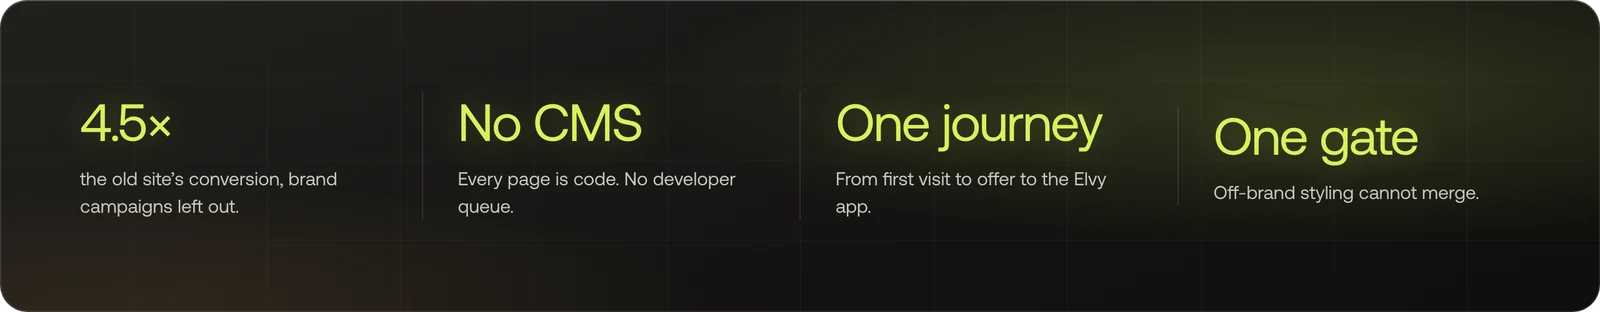
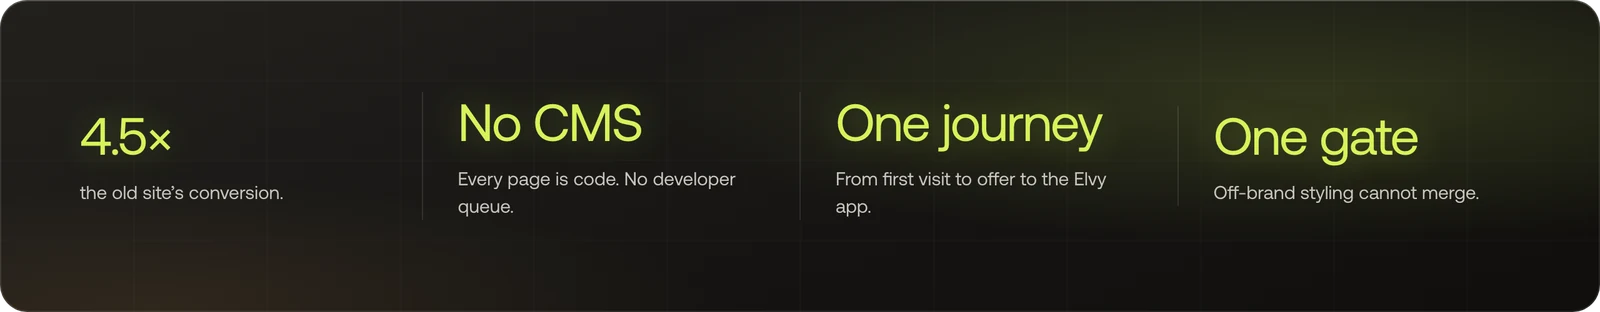
Profile: How I work picture; drop campaign note; Apollo framed as tools I build for the team

Changed region(s): [[0.0312, 0.5481, 0.2188, 0.6923], [0.0312, 0.3173, 0.125, 0.5192]]

diff --git a/README.md b/README.md
@@ -2,7 +2,7 @@
 
 <p align="center"><a href="https://www.linkedin.com/in/johanmatsgard/">LinkedIn</a> · <a href="https://github.com/johanmatsgard/vaken">vaken</a> · <a href="https://www.elvyenergy.com/design-system">Elvy design system</a></p>
 
-**I build AI systems that run growth, and I lead them like an engineering team.** Most marketers brief engineers. I direct the agents that write the code, and I own the result. Since May: elvyenergy.com, now 4.5× the old site's conversion; Apollo, Elvy's AI marketing crew, which I designed; and vaken, open-source mission control for Claude Code, which I built. More than 6,300 commits from many agents running in parallel, planned and reviewed by me. I run brand and growth at Elvy in Stockholm.
+**I build AI systems that run growth, and I lead them like an engineering team.** Most marketers brief engineers. I direct the agents that write the code, and I own the result. Since May: elvyenergy.com, now 4.5× the old site's conversion; Apollo, the AI marketing crew I build for our team; and vaken, open-source mission control for Claude Code, which I built. More than 6,300 commits from many agents running in parallel, planned and reviewed by me. I run brand and growth at Elvy in Stockholm.
 
 Before Elvy I spent many years on strategy, growth and digital transformation for global brands and fast-growing companies, B2B and B2C. I still advise founders and investors on growth.
 
@@ -11,7 +11,7 @@ Before Elvy I spent many years on strategy, growth and digital transformation fo
 <table>
 <tr>
 <td width="33%" valign="top"><a href="#elvyenergycom-45-the-conversion-run-as-code"><img src="assets/featured-elvy.webp" alt="elvyenergy.com: 4.5× the conversion"></a><br><b>elvyenergy.com</b><br>Every page is code. Every change is tested. Now 4.5× the old site's conversion. <a href="#elvyenergycom-45-the-conversion-run-as-code">See the work</a></td>
-<td width="33%" valign="top"><a href="#apollo-a-small-team-with-the-reach-of-a-big-one"><img src="assets/featured-apollo.webp" alt="Apollo: a small team with the reach of a big one"></a><br><b>Apollo</b><br>Elvy's AI marketing crew, designed by me. About 6× more output per person, our own estimate. <a href="#apollo-a-small-team-with-the-reach-of-a-big-one">See Apollo</a></td>
+<td width="33%" valign="top"><a href="#apollo-a-small-team-with-the-reach-of-a-big-one"><img src="assets/featured-apollo.webp" alt="Apollo: a small team with the reach of a big one"></a><br><b>Apollo</b><br>Elvy's AI marketing crew. About 6× more output per person, our own estimate. <a href="#apollo-a-small-team-with-the-reach-of-a-big-one">See Apollo</a></td>
 <td width="33%" valign="top"><a href="#vaken-mission-control-for-claude-code"><img src="assets/featured-vaken.webp" alt="vaken: mission control for Claude Code"></a><br><b>vaken</b><br>Open-source mission control for Claude Code. Long-session context about 70% smaller, and a stop before risky commands. <a href="#vaken-mission-control-for-claude-code">See vaken</a></td>
 </tr>
 </table>
@@ -24,14 +24,14 @@ Before Elvy I spent many years on strategy, growth and digital transformation fo
 
 The new site, built on a new design system, went live on 10 July. I have run it end to end since: pages, SEO, conversion, content, tracking, and the links to Apollo and our sales tools.
 
-Every change ships the same way: an agent edits the code, opens a pull request with a preview, and a gate checks it. Conversion more than doubled in the first month, then kept climbing. Today the site converts **4.5× better** than the old one, with brand campaigns left out.
+Every change ships the same way: an agent edits the code, opens a pull request with a preview, and a gate checks it. Conversion more than doubled in the first month, then kept climbing. Today the site converts **4.5× better** than the old one.
 
 - **No CMS.** Every page is code, managed through Claude Code. Marketing moves without waiting in a developer queue.
 - **One journey.** Onboarding looks up the house from the address, so visitors start with their own home. The path runs on to the offer and the Elvy app.
 - **One gate.** No change merges without lint, types, tests, contrast and a token check. Off-brand styling cannot slip in.
 - **Built for campaigns.** Wired to Apollo: a new campaign gets its own landing page fast, tracked from day one.
 
-<picture><source media="(prefers-color-scheme: dark)" srcset="assets/uplift-dark.webp"><img src="assets/uplift-light.webp" alt="Conversion rate: 4.5× the old site, with brand-awareness campaigns left out." width="100%"></picture>
+<picture><source media="(prefers-color-scheme: dark)" srcset="assets/uplift-dark.webp"><img src="assets/uplift-light.webp" alt="Conversion rate: 4.5× the old site." width="100%"></picture>
 
 <table>
 <tr>
@@ -53,7 +53,6 @@ Every change ships the same way: an agent edits the code, opens a pull request w
 - **No CMS.** You ask an AI coding agent for a change and drop in the images. It edits the right file and opens a pull request with a preview link. Nothing goes live on its own.
 - **One gate for every change.** Formatting, lint, type check, tests, contrast and document structure, and a check that the generated CSS still matches the tokens.
 - **Leads flow straight on.** Each lead from the onboarding flow goes to sales with the house data attached, and quiet leads get a planned follow-up in HubSpot.
-- **Measured honestly.** Brand-awareness traffic is read apart from performance traffic, so a big brand push never hides a real gain.
 
 Stack: Next.js (App Router), React 19, TypeScript, Tailwind v4, next-intl, React Email, Vercel. [Full write-up](https://github.com/johanmatsgard/elvy-web-case-study)
 </details>
@@ -66,7 +65,7 @@ Stack: Next.js (App Router), React 19, TypeScript, Tailwind v4, next-intl, React
 
 **Apollo makes a small team work like a big one: about 6× more output per person, by our own estimate.**
 
-I designed Apollo and built the first version alone. Now a team builds it with me, and I set the direction. Apollo spots the angle before anyone asks, answers every customer in minutes, and reacts while a moment still matters. Every ad channel sits next to signed customers, so each call rests on real numbers, and every recommendation gets a verdict. As Elvy grows, the same team covers more ground, so we hire for ideas, not for routine. People keep the ideas, the bold tests and the customers.
+I build the tools our team needs, and Apollo is the biggest. It spots the angle before anyone asks, answers every customer in minutes, and reacts while a moment still matters. Every ad channel sits next to signed customers, so each call rests on real numbers, and every recommendation gets a verdict. As Elvy grows, the same team covers more ground, so we hire for ideas, not for routine. People keep the ideas, the bold tests and the customers.
 
 <img src="assets/apollo-climb.webp" alt="Every week, more of marketing flies itself. Areas move from Apollo watches, to Apollo drafts, to Apollo runs it." width="100%">
 
@@ -156,6 +155,10 @@ claude plugin install vaken@vaken
 **The Elvy app.** I helped design and build our customer app, and from here I take a much bigger part in it. I also lifted the website's design system into a kit, so the app and the customer portal share the site's look. More on the app here soon.
 
 ## How I work
+
+<img src="assets/how-i-work.webp" alt="One person. Many agents. One gate. I plan, agents build in parallel across elvyenergy.com, Apollo, vaken and the design loop, a gate checks every change, and I review and ship." width="100%">
+
+I work like a small engineering lead. I set the goal, split it into tasks, and run many Claude Code agents side by side. A gate checks every change, and I read each one before it ships. The same method built elvyenergy.com, Apollo and vaken.
 
 <table>
 <tr>
